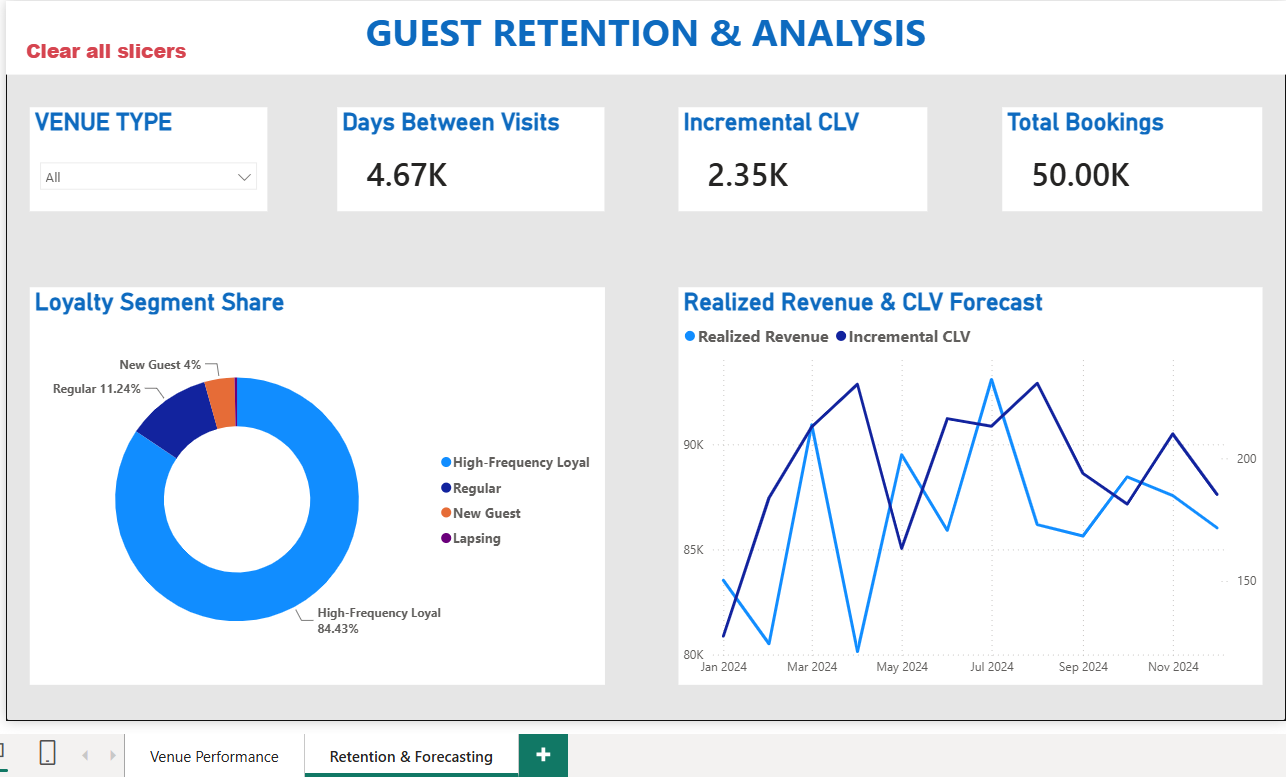
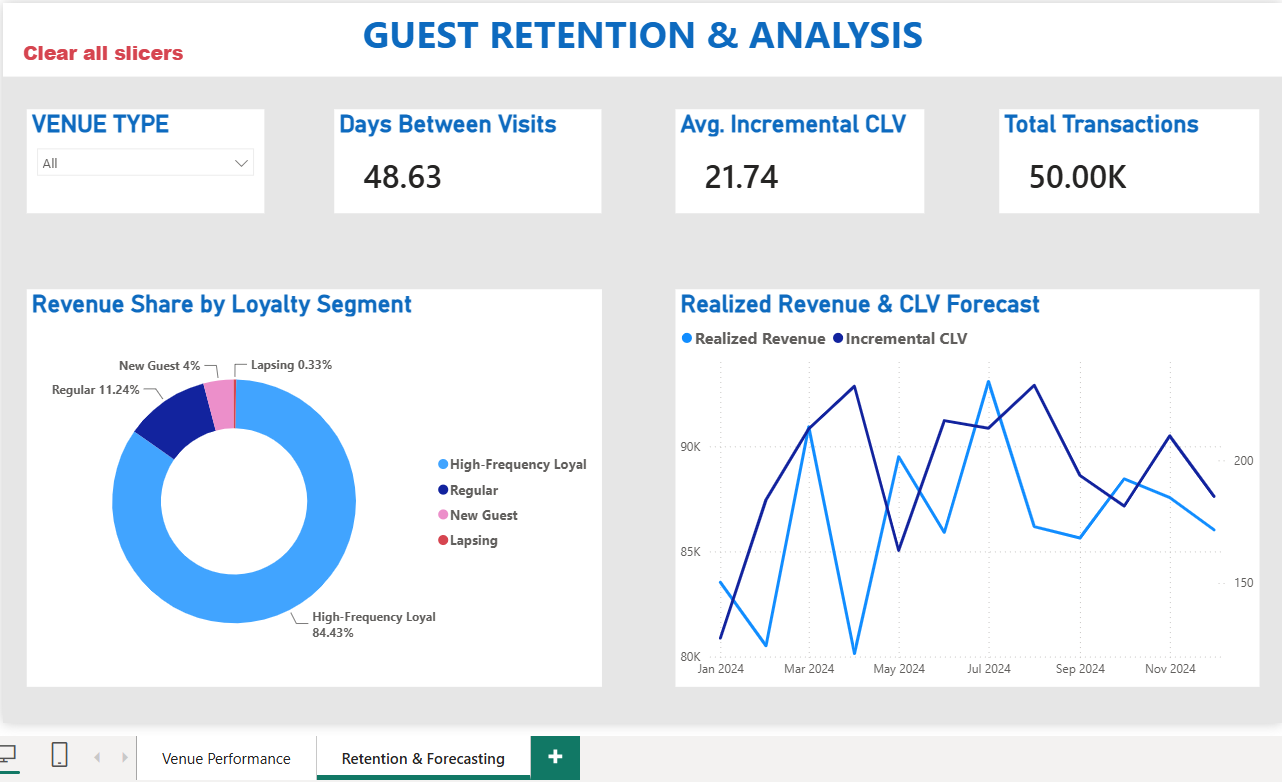
docs & chore: optimize dashboard metrics and promote engineering journal
- Changed 'Days Between Visits' measure aggregation from SUM to AVERAGE to display a realistic 48.63-day frequency.
- Renamed 'Incremental CLV' KPI to 'Avg. Incremental CLV' and 'Total Bookings' to 'Total Transactions'.
- Adjusted the donut chart colors to clearly display the 'Lapsing' customer segment.
- Refactored README.md to feature Azure SQL & Data Factory badges, a corrected tech stack table, and the [!TIP] callout to the Engineering Journal.
- Re-synchronized the local visual asset (retention_analysis.png) to match the dashboard corrections.

diff --git a/README.md b/README.md
@@ -5,6 +5,8 @@ This project simulates the enterprise analytics infrastructure an EPOS (Electron
 
 <p align="center">
 
+[![Azure SQL](https://img.shields.io/badge/Azure_SQL-0078D4?style=for-the-badge&logo=microsoftazuresql&logoColor=white)](https://azure.microsoft.com/)
+[![Azure ADF](https://img.shields.io/badge/Azure_Data_Factory-0078D4?style=for-the-badge&logo=microsoftazure&logoColor=white)](https://azure.microsoft.com/)
 [![Snowflake](https://img.shields.io/badge/Snowflake-29B5E8?style=for-the-badge&logo=snowflake&logoColor=white)](https://www.snowflake.com/)
 [![dbt](https://img.shields.io/badge/dbt-FF694B?style=for-the-badge&logo=dbt&logoColor=white)](https://www.getdbt.com/)
 [![Power BI](https://img.shields.io/badge/Power_BI-F2C811?style=for-the-badge&logo=powerbi&logoColor=black)](https://powerbi.microsoft.com/)
@@ -94,6 +96,12 @@ This structural breakdown of our Snowflake instance displays the physical segreg
 This project demonstrates the design and implementation of an **enterprise-grade analytics platform** for hospitality and restaurant EPOS (Electronic Point of Sale) transaction records using a modern cloud data stack.
 
 The platform ingests raw transactional data from source systems, processes it through a modular dbt pipeline using **dbt Cloud**, stores the curated data inside **Snowflake**, and exposes business-intelligence-ready data marts to interactive **Power BI Desktop** executive dashboards via live **DirectQuery** connections.
+
+> [!TIP]
+> ### Curious how this project was actually built?
+> Explore the **Engineering Journal** to follow the complete development journey—from the first Snowflake connection and dbt modeling decisions to debugging production issues, Power BI optimization, Git workflow, and final deployment.
+> 
+> 📔 [Hospitality Platform Engineering Journal](engineering_journal.md)
 
 ---
 
@@ -227,6 +235,8 @@ To align the platform with production-grade engineering standards:
 
   Category                Technology
   ----------------------- ------------------------------
+  Ingestion Storage       Azure SQL Database
+  Data Orchestration      Azure Data Factory (ADF)
   Cloud Storage           Azure Blob Storage
   Data Warehouse          Snowflake
   Compute Warehouse       COMPUTE_WH (`SYSADMIN` Role)
@@ -270,8 +280,7 @@ hospitality-epos-data-pipeline/
 
 -   Modern Data Stack Architectures (Snowflake + dbt Cloud + Power BI)
 -   Dimensional Modeling & ELT Designs (Staging, Ephemeral, Mart layers)
--   Advanced SQL Analytics (Cryptographic Hashing, Windows partition
-    logic, dynamic sequencing)
+-   Customer Identity Modelling & Surrogate Key Design (Partition sequencing, behavioral analysis thresholds)
 -   Cloud Security and RBAC (Privilege transfers, Sysadmin environments,
     least-privilege schemas)
 -   DirectQuery Dashboard Optimization (Slicers, Custom button actions,